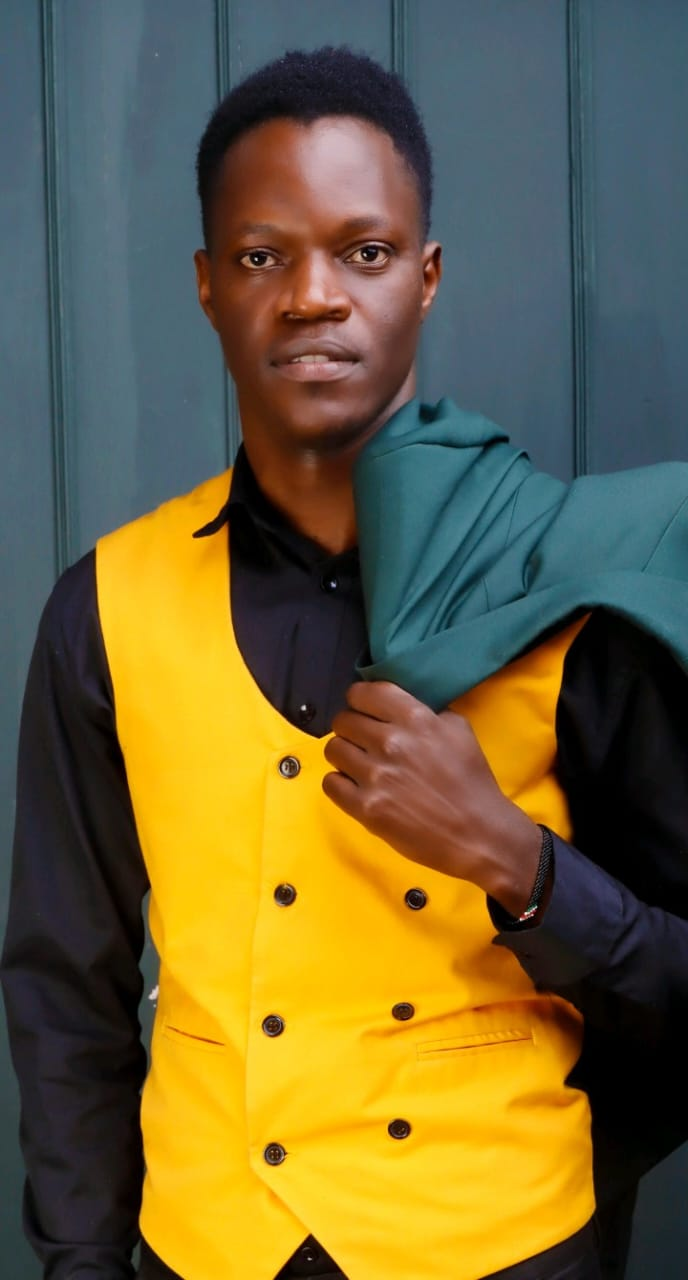
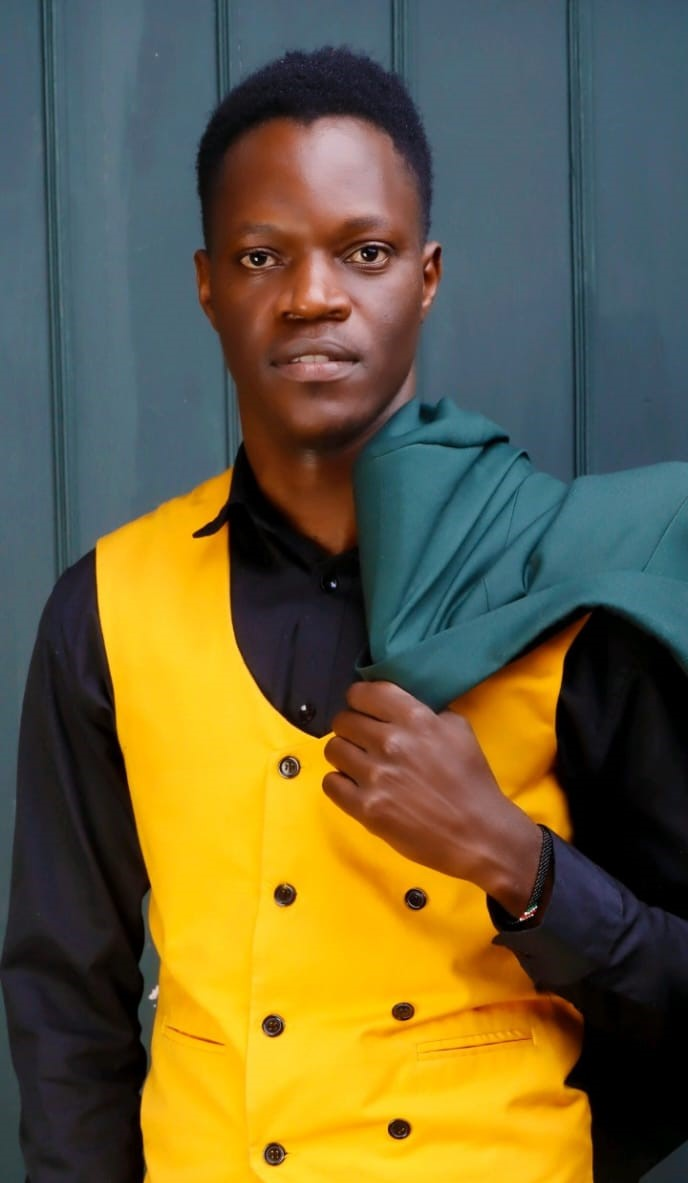
images

diff --git a/data/team-section/v1/index.tsx b/data/team-section/v1/index.tsx
@@ -39,7 +39,7 @@ export const teamSectionData: TeamSectionProps = {
     {
       slug: '#',
       image: {
-        src: '/assets/images/team/pepela2.jpg',
+        src: '/assets/images/team/jemo.jpg',
         alt: 'James Mugeni',
       },
       socials: [
@@ -84,30 +84,30 @@ export const teamSectionData: TeamSectionProps = {
       name: 'Caleb Bwire',
       about: 'Marketing Director',
     },
-    // {
-    //   slug: '#',
-    //   image: {
-    //     src: '/assets/images/team/people-1.png',
-    //     alt: 'Victor Bwire',
-    //   },
-    //   socials: [
-    //     // {
-    //     //   href: 'https://www.facebook.com/',
-    //     //   icon: <FaFacebookF />,
-    //     // },
-    //     // {
-    //     //   href: 'https://twitter.com/',
-    //     //   icon: <FaTwitter />,
-    //     // },
-    //     {
-    //       href: 'https://www.linkedin.com/',
-    //       icon: <FaLinkedinIn />,
-    //     },
+    {
+      slug: '#',
+      image: {
+        src: '/assets/images/team/pepela2.jpg',
+        alt: 'John Pepela',
+      },
+      socials: [
+        // {
+        //   href: 'https://www.facebook.com/',
+        //   icon: <FaFacebookF />,
+        // },
+        // {
+        //   href: 'https://twitter.com/',
+        //   icon: <FaTwitter />,
+        // },
+        {
+          href: 'https://www.linkedin.com/',
+          icon: <FaLinkedinIn />,
+        },
      
-    //   ],
-    //   name: 'Victor Bwire',
-    //   about: 'Chief Excecutive Officer',
-    // },
+      ],
+      name: 'John Pepela',
+      about: 'Technical Director',
+    },
     // {
     //   slug: '#',
     //   image: {

diff --git a/src/components/cards/team/v1/index.tsx b/src/components/cards/team/v1/index.tsx
@@ -29,11 +29,11 @@ export function TeamCard({
   contentWrapperClassName,
 }: TeamCardProps) {
   return (
-    <div className="group">
+    <div className="group ">
       <div
         className={cn(
           // General
-          'relative z-1 mr-30px overflow-hidden rounded-5',
+          'relative z-1 mr-30px overflow-hidden rounded-5 ',
 
           // after => image overlay effect
           'after:pointer-events-none after:absolute after:left-0 after:top-0 after:z-1 after:h-0 after:w-full after:bg-white/30 after:opacity-100',
@@ -51,7 +51,7 @@ export function TeamCard({
           (min-width:1024px) 33vw,
           100vw
           "
-          className="object-cover transition-transform duration-500 [transform:scale(1.05)] group-hover:[transform:scale(1)]"
+          className="object-cover max-h-[80vh] h-full transition-transform duration-500 [transform:scale(1.05)] group-hover:[transform:scale(1)]"
         />
         {socials && socials.length > 0 && (
           <div className="absolute bottom-0 left-30px">
